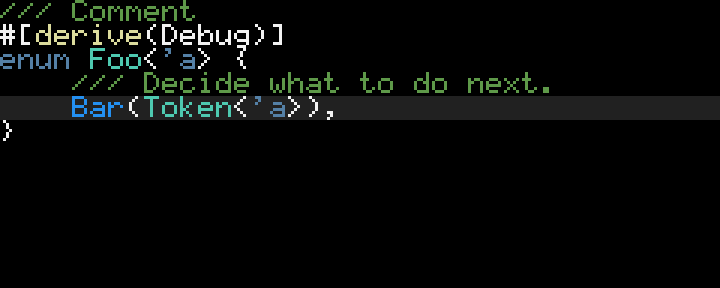
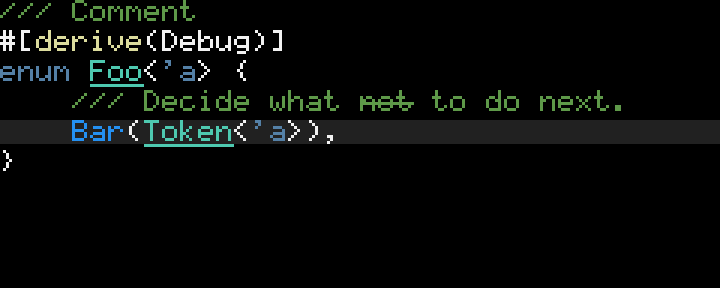
Support crossed out and underlined ANSI sequences

Changed region(s): [[0.0, 0.0625, 1.0, 0.5312], [0.0, 0.5312, 0.0306, 0.5938]]

diff --git a/src/rendering/line.rs b/src/rendering/line.rs
@@ -170,7 +170,8 @@ where
                             Sgr::Reset => {
                                 self.style.text_style.text_color = None;
                                 self.style.text_style.background_color = None;
-                                // TODO: turn off underline/cross out
+                                self.style.underlined = false;
+                                self.style.strikethrough = false;
                             }
                             Sgr::ChangeTextColor(color) => {
                                 self.style.text_style.text_color = Some(color.into());
@@ -184,10 +185,18 @@ where
                             Sgr::DefaultBackgroundColor => {
                                 self.style.text_style.background_color = None;
                             }
-                            Sgr::Underline => {}
-                            Sgr::UnderlineOff => {}
-                            Sgr::CrossedOut => {}
-                            Sgr::NotCrossedOut => {}
+                            Sgr::Underline => {
+                                self.style.underlined = true;
+                            }
+                            Sgr::UnderlineOff => {
+                                self.style.underlined = false;
+                            }
+                            Sgr::CrossedOut => {
+                                self.style.strikethrough = true;
+                            }
+                            Sgr::NotCrossedOut => {
+                                self.style.strikethrough = false;
+                            }
                         },
 
                         None => break None,

diff --git a/examples/colored_text.rs b/examples/colored_text.rs
@@ -6,9 +6,9 @@ fn main() -> Result<(), core::convert::Infallible> {
     let text = format!(
         "{comment}/// Comment\n\
         {base_text}#[{attribute}derive{base_text}(Debug)]\n\
-        {keyword}enum {type_name}Foo{base_text}<{lifetime}'a{base_text}> {{\n\
-        {comment}\t/// Decide what to do next.\n\
-        {highlighted_background}\t{enum_variant}Bar{base_text}({type_name}Token{base_text}<{lifetime}'a{base_text}>),{end_of_line}\n\
+        {keyword}enum {type_name}{underlined}Foo{underlined_off}{base_text}<{lifetime}'a{base_text}> {{\n\
+        {comment}\t/// Decide what {strikethrough}not{strikethrough_off} to do next.\n\
+        {highlighted_background}\t{enum_variant}Bar{base_text}({type_name}{underlined}Token{underlined_off}{base_text}<{lifetime}'a{base_text}>),{end_of_line}\n\
         {line_background}{base_text}}}",
         // colors
         line_background = "\x1b[48;5;16m",
@@ -20,11 +20,16 @@ fn main() -> Result<(), core::convert::Infallible> {
         attribute ="\x1b[38;2;220;220;157m",
         type_name = "\x1b[38;2;78;201;176m",
         lifetime = "\x1b[38;2;84;128;166m",
-        end_of_line = "\x1b[40C"
+        end_of_line = "\x1b[40C",
+        underlined = "\x1b[4m",
+        underlined_off = "\x1b[24m",
+        strikethrough = "\x1b[9m",
+        strikethrough_off = "\x1b[29m",
     );
 
     let textbox_style = TextBoxStyleBuilder::new(Font6x8)
         .text_color(Rgb888::BLACK)
+        .line_spacing(2)
         .build();
 
     let bounds = Rectangle::new(Point::zero(), Point::new(240, 96));

diff --git a/src/rendering/ansi.rs b/src/rendering/ansi.rs
@@ -1,15 +1,34 @@
+//! ANSI escape sequence related types and functions.
 use crate::style::color::Rgb;
 
+/// List of supported SGR (Select Graphics Rendition) sequences
 #[derive(Copy, Clone, Debug, PartialEq, Eq)]
 pub enum Sgr {
+    /// Reset all styling options
     Reset,
+
+    /// Draw a line under the text
     Underline,
+
+    /// Cross out the text
     CrossedOut,
+
+    /// Disable drawing underline
     UnderlineOff,
+
+    /// Disable crossing out
     NotCrossedOut,
+
+    /// Change the text color
     ChangeTextColor(Rgb),
+
+    /// Reset the text color to transparent
     DefaultTextColor,
+
+    /// Change the background color
     ChangeBackgroundColor(Rgb),
+
+    /// Reset the background color to transparent
     DefaultBackgroundColor,
 }
 
@@ -87,6 +106,8 @@ fn try_parse_color(v: &[u8]) -> Option<Rgb> {
     }
 }
 
+/// Parse a set of SGR parameter numbers into a more convenient type
+#[inline]
 pub fn try_parse_sgr(v: &[u8]) -> Option<Sgr> {
     let code = *v.get(0)?;
     match code {

diff --git a/src/style/mod.rs b/src/style/mod.rs
@@ -154,6 +154,7 @@ use crate::{
     alignment::{HorizontalTextAlignment, VerticalTextAlignment},
     parser::{Parser, Token},
     rendering::{
+        ansi::Sgr,
         cursor::Cursor,
         line_iter::{LineElementIterator, RenderElement},
         space_config::UniformSpaceConfig,
@@ -345,7 +346,7 @@ where
         let mut current_width = 0;
         let mut last_spaces = 0;
         let mut total_spaces = 0;
-        let underlined = self.underlined;
+        let mut underlined = self.underlined;
         while let Some(token) = iter.next() {
             match token {
                 RenderElement::Space(_, count) => {
@@ -374,6 +375,8 @@ where
                         total_spaces = last_spaces;
                     }
                 }
+
+                RenderElement::Sgr(Sgr::Underline) => underlined = true,
 
                 // Ignore color changes
                 _ => {}

diff --git a/src/rendering/mod.rs b/src/rendering/mod.rs
@@ -1,6 +1,6 @@
 //! Pixel iterators used for text rendering.
 
-mod ansi;
+pub mod ansi;
 pub mod character;
 pub mod cursor;
 pub mod line;
